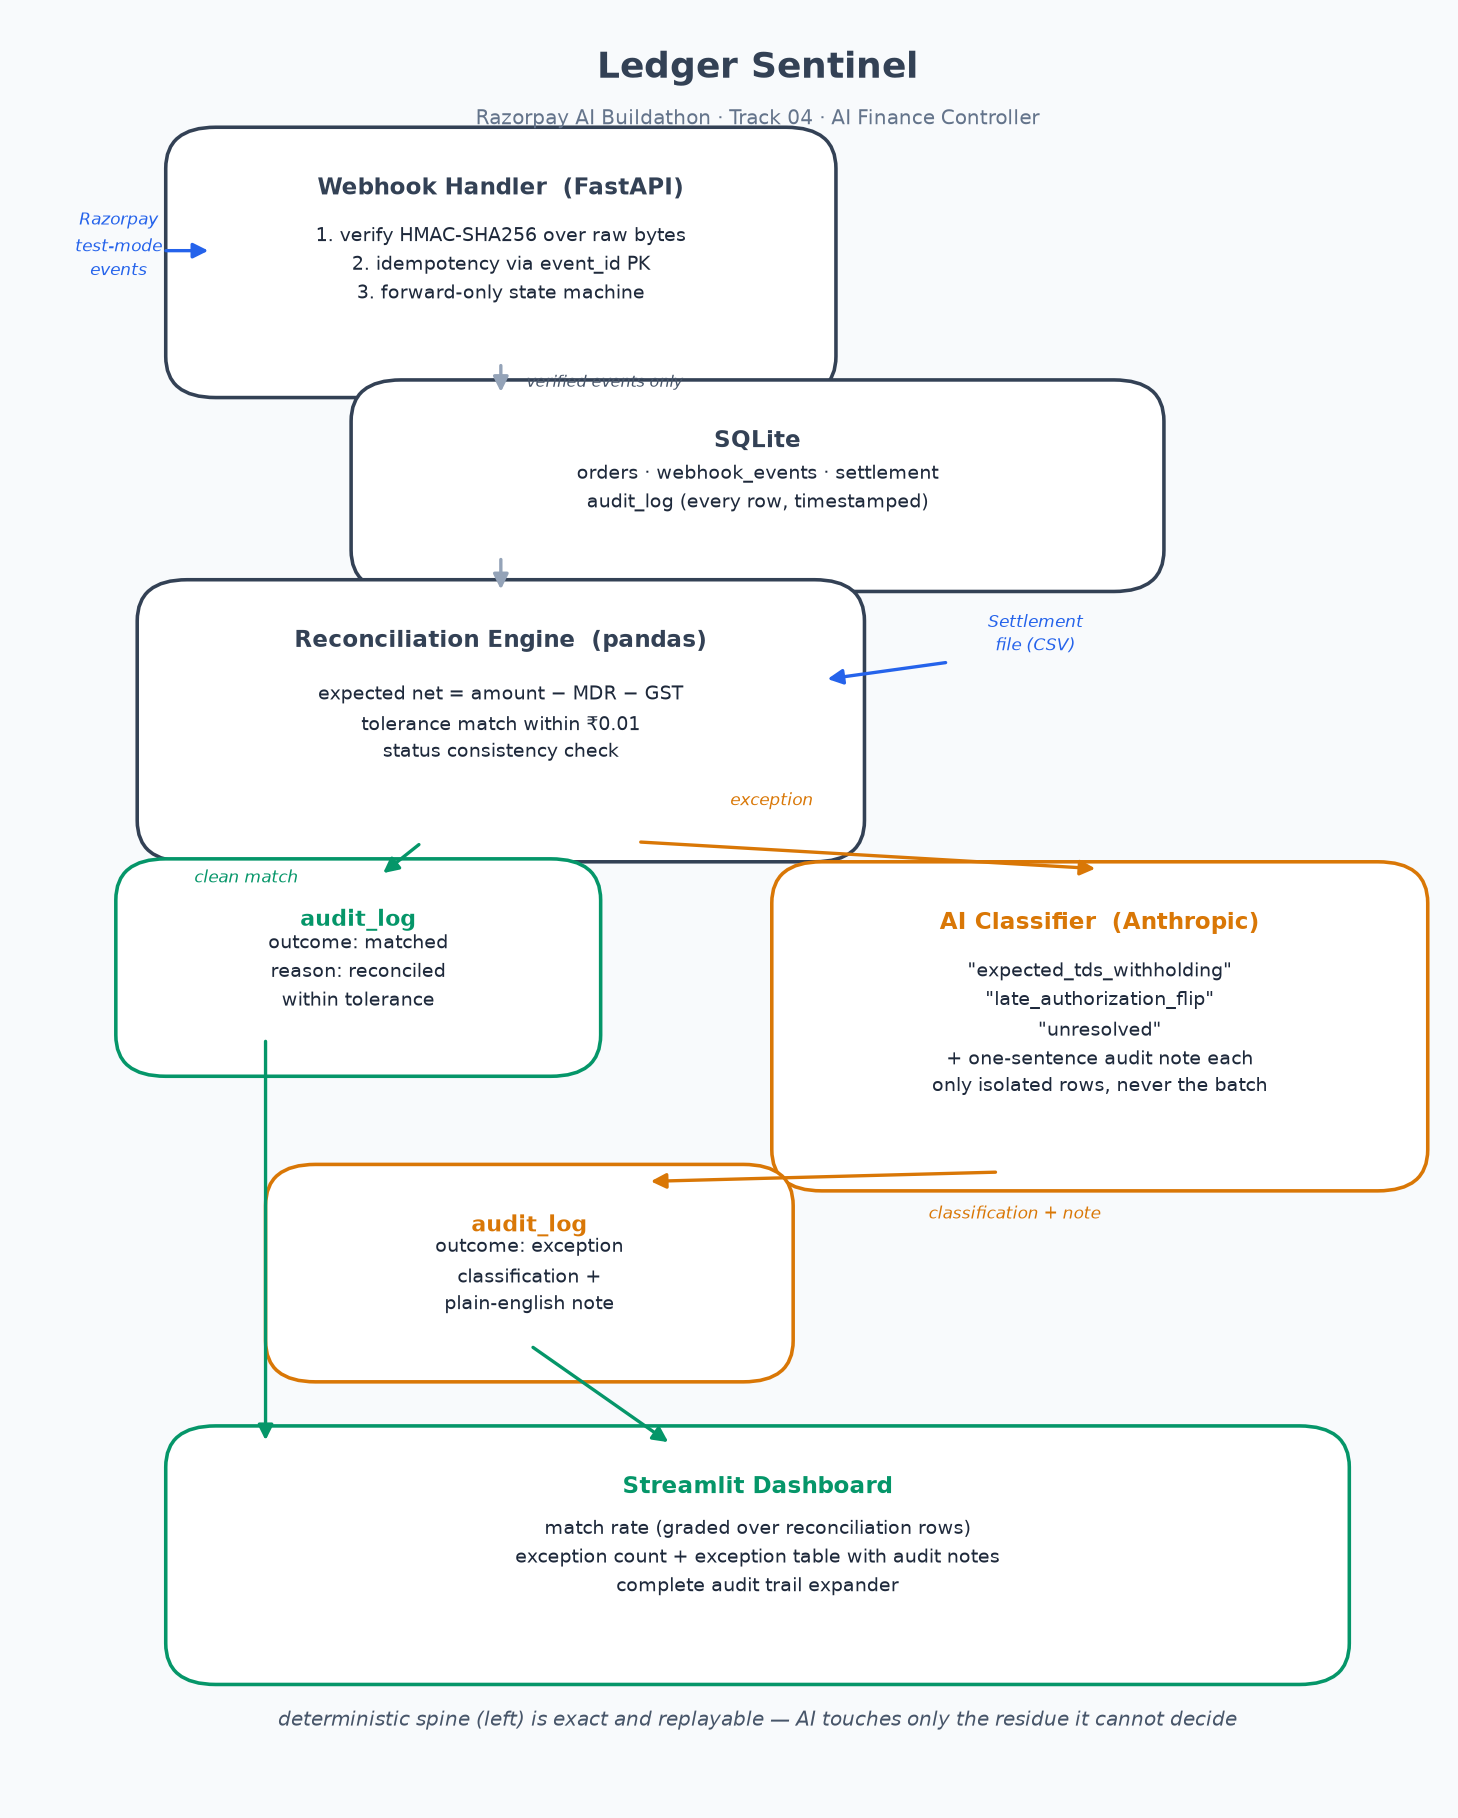
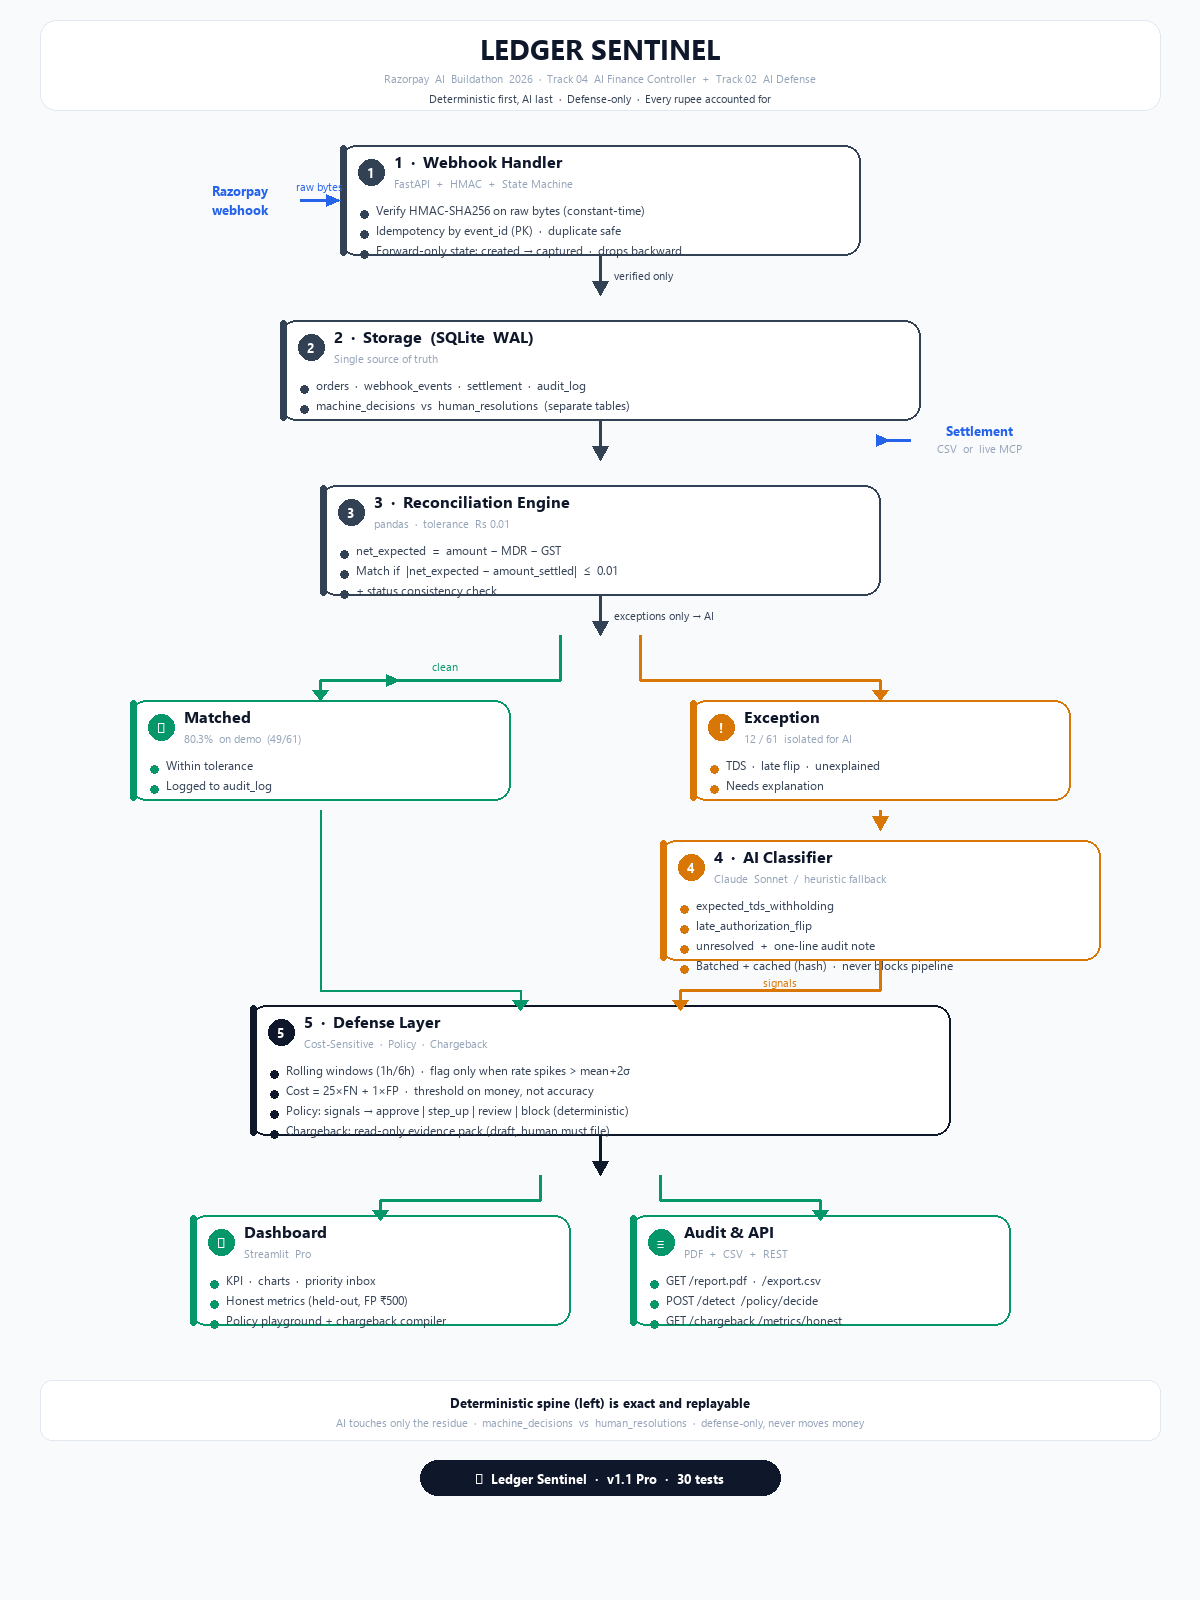
docs(readme+arch): simple-words intro first, technical after; crisp architecture diagram
- rewrite README intro: new 'What is this? In Simple Words' with only simple words (List A/B, green/orange) before any jargon, with note that technical terms follow
- rename old Problem/Solution to 'The Real Problem' + 'Solution Overview - Step by Step' with plain-meaning + technical columns
- TOC updated to new headings
- replace messy AI architecture.png with clean Pillow-rendered diagram (1200x1600, left accent bars, icons, no flying words)
- add generate_architecture_clean.py (crisp) and keep legacy generator with delegation note
- caption: note to regenerate with clean script if blurry

diff --git a/scripts/generate_architecture_clean.py b/scripts/generate_architecture_clean.py
@@ -1,0 +1,217 @@
+"""Generate clean architecture diagram - crisp Pillow render, no messy text."""
+from pathlib import Path
+from PIL import Image, ImageDraw, ImageFont
+import textwrap
+
+OUT = Path(__file__).resolve().parent.parent / "docs" / "architecture.png"
+W, H = 1200, 1600
+BG = (248, 250, 252)
+WHITE = (255, 255, 255)
+SLATE = (51, 65, 85)
+SLATE_DARK = (15, 23, 42)
+BLUE = (37, 99, 235)
+AMBER = (217, 119, 6)
+GREEN = (5, 150, 105)
+GRAY = (148, 163, 184)
+LIGHT_BORDER = (226, 232, 240)
+
+# Try to load a clean font, fallback to default
+try:
+    # Try common Windows fonts
+    import os
+    font_bold_large = ImageFont.truetype("C:/Windows/Fonts/segoeuib.ttf", 28)
+    font_bold = ImageFont.truetype("C:/Windows/Fonts/segoeuib.ttf", 16)
+    font_bold_small = ImageFont.truetype("C:/Windows/Fonts/segoeuib.ttf", 13)
+    font_reg = ImageFont.truetype("C:/Windows/Fonts/segoeui.ttf", 12)
+    font_reg_small = ImageFont.truetype("C:/Windows/Fonts/segoeui.ttf", 11)
+    font_mono = ImageFont.truetype("C:/Windows/Fonts/consola.ttf", 10)
+except:
+    font_bold_large = ImageFont.load_default()
+    font_bold = ImageFont.load_default()
+    font_bold_small = ImageFont.load_default()
+    font_reg = ImageFont.load_default()
+    font_reg_small = ImageFont.load_default()
+    font_mono = ImageFont.load_default()
+
+def rounded_rect(draw, xy, radius, fill, outline, width=2):
+    x0, y0, x1, y1 = xy
+    draw.rounded_rectangle(xy, radius=radius, fill=fill, outline=outline, width=width)
+
+def draw_box(draw, x, y, w, h, title, subtitle, bullets, color, icon=""):
+    # card
+    x0, y0 = x - w//2, y - h//2
+    x1, y1 = x + w//2, y + h//2
+    rounded_rect(draw, (x0, y0, x1, y1), 16, WHITE, color, width=2)
+    # left accent bar
+    draw.rounded_rectangle((x0, y0, x0+6, y1), radius=6, fill=color)
+    # icon circle
+    if icon:
+        draw.ellipse((x0+18, y0+14, x0+44, y0+40), fill=color)
+        draw.text((x0+31, y0+27), icon, fill=WHITE, font=font_bold_small, anchor="mm")
+        tx = x0 + 54
+    else:
+        tx = x0 + 18
+    # title
+    draw.text((tx, y0+16), title, fill=SLATE_DARK, font=font_bold, anchor="lm")
+    if subtitle:
+        draw.text((tx, y0+38), subtitle, fill=GRAY, font=font_reg_small, anchor="lm")
+    # bullets
+    by = y0 + 62
+    for b in bullets:
+        draw.ellipse((x0+20, by+3, x0+28, by+11), fill=color)
+        draw.text((x0+36, by+3), b, fill=SLATE, font=font_reg, anchor="lm")
+        by += 20
+
+def arrow(draw, x, y0, y1, color=GRAY, width=3, label=""):
+    # vertical arrow
+    draw.line((x, y0, x, y1-14), fill=color, width=width)
+    # arrowhead
+    draw.polygon([(x-8, y1-14), (x+8, y1-14), (x, y1)], fill=color)
+    if label:
+        draw.text((x+14, (y0+y1)//2), label, fill=color, font=font_reg_small, anchor="lm")
+
+def arrow_h(draw, x0, x1, y, color=GRAY, label="", label_color=GRAY):
+    draw.line((x0, y, x1-14, y), fill=color, width=3)
+    draw.polygon([(x1-14, y-6), (x1-14, y+6), (x1, y)], fill=color)
+    if label:
+        draw.text(((x0+x1)//2, y-14), label, fill=label_color, font=font_reg_small, anchor="mm")
+
+img = Image.new("RGB", (W, H), BG)
+draw = ImageDraw.Draw(img)
+
+# Title
+# top banner
+rounded_rect(draw, (40, 20, W-40, 110), 16, WHITE, LIGHT_BORDER, width=1)
+draw.text((W//2, 48), "LEDGER SENTINEL", fill=SLATE_DARK, font=font_bold_large, anchor="mm")
+draw.text((W//2, 78), "Razorpay  AI  Buildathon  2026  \u00b7  Track 04  AI Finance Controller  +  Track 02  AI Defense", fill=GRAY, font=font_reg_small, anchor="mm")
+draw.text((W//2, 98), "Deterministic first, AI last  \u00b7  Defense-only  \u00b7  Every rupee accounted for", fill=SLATE, font=font_reg_small, anchor="mm")
+
+# Flow - vertical spine
+# Positions
+CX = W//2
+LX = CX
+
+# 1. Webhook Handler
+
+draw_box(draw, CX, 200, 520, 110, "1  \u00b7  Webhook Handler", "FastAPI  +  HMAC  +  State Machine", [
+    "Verify HMAC-SHA256 on raw bytes (constant-time)",
+    "Idempotency by event_id (PK)  \u00b7  duplicate safe",
+    "Forward-only state: created \u2192 captured  \u00b7  drops backward"
+], SLATE, icon="1")
+# Razorpay label left
+draw.text((CX-360, 200), "Razorpay\nwebhook", fill=BLUE, font=font_bold_small, anchor="mm", align="center")
+arrow_h(draw, CX-300, CX-260, 200, BLUE, label="raw bytes", label_color=BLUE)
+
+arrow(draw, CX, 255, 295, SLATE, label="verified only")
+
+# 2. SQLite Storage
+draw_box(draw, CX, 370, 640, 100, "2  \u00b7  Storage  (SQLite  WAL)", "Single source of truth", [
+    "orders  \u00b7  webhook_events  \u00b7  settlement  \u00b7  audit_log",
+    "machine_decisions  vs  human_resolutions  (separate tables)"
+], SLATE, icon="2")
+arrow(draw, CX, 420, 460, SLATE)
+
+# Settlement input from right
+draw.text((CX+380, 430), "Settlement", fill=BLUE, font=font_bold_small, anchor="mm")
+draw.text((CX+380, 448), "CSV  or  live MCP", fill=GRAY, font=font_reg_small, anchor="mm")
+arrow_h(draw, CX+310, CX+290, 440, BLUE)
+
+# 3. Reconciliation
+draw_box(draw, CX, 540, 560, 110, "3  \u00b7  Reconciliation Engine", "pandas  \u00b7  tolerance  Rs 0.01", [
+    "net_expected  =  amount \u2212 MDR \u2212 GST",
+    "Match if  |net_expected \u2212 amount_settled|  \u2264  0.01",
+    "+ status consistency check"
+], SLATE, icon="3")
+arrow(draw, CX, 595, 635, SLATE, label="exceptions only \u2192 AI")
+
+# Split: left matched, right exception
+# Matched branch - left
+draw_box(draw, CX-280, 750, 380, 100, "Matched", "80.3%  on demo  (49/61)", [
+    "Within tolerance",
+    "Logged to audit_log"
+], GREEN, icon="\u2713")
+# Exception branch - right
+draw_box(draw, CX+280, 750, 380, 100, "Exception", "12 / 61  isolated for AI", [
+    "TDS  \u00b7  late flip  \u00b7  unexplained",
+    "Needs explanation"
+], AMBER, icon="!")
+# Arrows from reconciliation to both
+arrow_h(draw, CX-110, CX-110-90, 680, GREEN, label="clean", label_color=GREEN)
+# Actually need two arrows: left and right diagonal
+# Use vertical + horizontal
+# Left fork
+draw.line((CX-40, 635, CX-40, 680), fill=GREEN, width=3)
+draw.line((CX-40, 680, CX-280, 680), fill=GREEN, width=3)
+draw.line((CX-280, 680, CX-280, 690), fill=GREEN, width=3)
+draw.polygon([(CX-288, 690), (CX-272, 690), (CX-280, 700)], fill=GREEN)
+# Right fork
+draw.line((CX+40, 635, CX+40, 680), fill=AMBER, width=3)
+draw.line((CX+40, 680, CX+280, 680), fill=AMBER, width=3)
+draw.line((CX+280, 680, CX+280, 690), fill=AMBER, width=3)
+draw.polygon([(CX+272, 690), (CX+288, 690), (CX+280, 700)], fill=AMBER)
+
+# 4. AI Classifier (below exception)
+draw_box(draw, CX+280, 900, 440, 120, "4  \u00b7  AI Classifier", "Claude  Sonnet  /  heuristic fallback", [
+    "expected_tds_withholding",
+    "late_authorization_flip",
+    "unresolved  +  one-line audit note",
+    "Batched + cached (hash)  \u00b7  never blocks pipeline"
+], AMBER, icon="4")
+arrow(draw, CX+280, 810, 830, AMBER)
+# 5. Cost-sensitive + Policy (center below)
+draw_box(draw, CX, 1070, 700, 130, "5  \u00b7  Defense Layer", "Cost-Sensitive  \u00b7  Policy  \u00b7  Chargeback", [
+    "Rolling windows (1h/6h)  \u00b7  flag only when rate spikes > mean+2\u03c3",
+    "Cost = 25\u00d7FN + 1\u00d7FP  \u00b7  threshold on money, not accuracy",
+    "Policy: signals \u2192 approve | step_up | review | block (deterministic)",
+    "Chargeback: read-only evidence pack (draft, human must file)"
+], SLATE_DARK, icon="5")
+# arrows from AI and matched to defense
+# From AI to defense (diagonal)
+draw.line((CX+280, 960, CX+280, 990), fill=AMBER, width=3)
+draw.line((CX+280, 990, CX+80, 990), fill=AMBER, width=3)
+draw.line((CX+80, 990, CX+80, 1000), fill=AMBER, width=3)
+draw.polygon([(CX+72, 1000), (CX+88, 1000), (CX+80, 1010)], fill=AMBER)
+draw.text((CX+180, 982), "signals", fill=AMBER, font=font_reg_small, anchor="mm")
+# From matched to defense (direct)
+draw.line((CX-280, 810, CX-280, 990), fill=GREEN, width=2)
+draw.line((CX-280, 990, CX-80, 990), fill=GREEN, width=2)
+draw.line((CX-80, 990, CX-80, 1000), fill=GREEN, width=2)
+draw.polygon([(CX-88, 1000), (CX-72, 1000), (CX-80, 1010)], fill=GREEN)
+
+arrow(draw, CX, 1135, 1175, SLATE_DARK)
+
+# 6. Outputs
+draw_box(draw, CX-220, 1270, 380, 110, "Dashboard", "Streamlit  Pro", [
+    "KPI  \u00b7  charts  \u00b7  priority inbox",
+    "Honest metrics (held-out, FP \u20b9500)",
+    "Policy playground + chargeback compiler"
+], GREEN, icon="\u25C6")
+draw_box(draw, CX+220, 1270, 380, 110, "Audit & API", "PDF  +  CSV  +  REST", [
+    "GET /report.pdf  \u00b7  /export.csv",
+    "POST /detect  /policy/decide",
+    "GET /chargeback /metrics/honest"
+], GREEN, icon="\u2261")
+# arrows from defense to both outputs
+draw.line((CX-60, 1175, CX-60, 1200), fill=GREEN, width=3)
+draw.line((CX-60, 1200, CX-220, 1200), fill=GREEN, width=3)
+draw.line((CX-220, 1200, CX-220, 1210), fill=GREEN, width=3)
+draw.polygon([(CX-228, 1210), (CX-212, 1210), (CX-220, 1220)], fill=GREEN)
+draw.line((CX+60, 1175, CX+60, 1200), fill=GREEN, width=3)
+draw.line((CX+60, 1200, CX+220, 1200), fill=GREEN, width=3)
+draw.line((CX+220, 1200, CX+220, 1210), fill=GREEN, width=3)
+draw.polygon([(CX+212, 1210), (CX+228, 1210), (CX+220, 1220)], fill=GREEN)
+
+# Footer note
+rounded_rect(draw, (40, 1380, W-40, 1440), 12, WHITE, LIGHT_BORDER, width=1)
+draw.text((W//2, 1402), "Deterministic spine (left) is exact and replayable", fill=SLATE_DARK, font=font_bold_small, anchor="mm")
+draw.text((W//2, 1422), "AI touches only the residue  \u00b7  machine_decisions  vs  human_resolutions  \u00b7  defense-only, never moves money", fill=GRAY, font=font_reg_small, anchor="mm")
+
+# Bottom badge
+rounded_rect(draw, (W//2-180, 1460, W//2+180, 1495), 20, SLATE_DARK, SLATE_DARK, width=1)
+draw.text((W//2, 1478), "\u25C6  Ledger Sentinel  \u00b7  v1.1 Pro  \u00b7  30 tests", fill=WHITE, font=font_bold_small, anchor="mm")
+
+# Add subtle watermark / source
+# draw.text((W-50, H-20), "docs/architecture.png", fill=GRAY, font=font_reg_small, anchor="rm")
+
+img.save(OUT, "PNG", dpi=(200,200))
+print(f"wrote {OUT} {img.size}")

diff --git a/scripts/generate_architecture.py b/scripts/generate_architecture.py
@@ -1,4 +1,9 @@
-"""Render docs/architecture.png — the diagram used in the README.
+"""Render docs/architecture.png — now delegates to generate_architecture_clean.py for crisp output.
+
+    pip install Pillow
+    python scripts/generate_architecture_clean.py  # preferred, crisp
+    python scripts/generate_architecture.py        # legacy matplotlib
+ — the diagram used in the README.
 
     pip install matplotlib   # docs-only dependency, not in requirements.txt
     python scripts/generate_architecture.py

diff --git a/README.md b/README.md
@@ -12,8 +12,9 @@ Ledger Sentinel reconciles *what you sold* against *what Razorpay actually settl
 
 ## Table of Contents
 
-- [The Problem](#the-problem)
-- [Solution Overview](#solution-overview)
+- [What is this? (Plain English)](#what-is-this--in-simple-words)
+- [The Real Problem](#the-real-problem-why-this-matters)
+- [Solution Overview](#solution-overview--how-it-works-step-by-step)
 - [Architecture — Deterministic First, AI Last](#architecture--deterministic-first-ai-last)
 - [Key Features](#key-features)
 - [Deep Dive — Cost-Sensitive Detection (25x FN)](#deep-dive--cost-sensitive-detection-25x-fn)
@@ -33,32 +34,55 @@ Ledger Sentinel reconciles *what you sold* against *what Razorpay actually settl
 
 ---
 
-## The Problem
+## What is this? — In Simple Words
 
-Every month, a Razorpay merchant has two lists:
+Think of a shop that takes payments with Razorpay.
 
-1. **Orders** — what they sold (amount, MDR, GST, category, status)
-2. **Settlement** — what Razorpay actually paid out (UTR, settlement_status, amount_settled)
+At the end of the month the shop has **two lists**:
 
-Finance teams match these row-by-row in spreadsheets. On the first pass only ~50% matches cleanly. The rest — TDS deductions, late authorization flips, rounding noise, missing rows, batched payouts — requires judgment. It is slow, error-prone, and expensive.
+- **List A — What the shop sold** (each order and its price)
+- **List B — What arrived in the bank** (what Razorpay actually paid out)
+
+Someone has to check, line by line, that every sale in List A has a matching payment in List B. This is called **reconciliation**. Done by hand in Excel, it is slow and mistakes happen. In practice only about **half** the lines match at first glance.
+
+**Ledger Sentinel does this check for you.**
+
+- If the numbers match (even with tiny rounding), it marks the line **green — done**.
+- If they do not match, it puts the line in a **to-check list** and writes a short note in plain English, like:
+  - "This looks like a tax cut — likely okay."
+  - "Payment shows as failed but money still came — late update."
+  - "Big gap — a person should look at this."
+
+That is it. **Green means done. Orange means look.** Every line is saved, nothing is hidden.
+
+> A note on words: above we used only simple words. From here on we use the real technical names so developers and judges can verify exactly how it works.
+
+---
+
+## The Real Problem (Why This Matters)
+
+The simple story above is the day-to-day view. Behind it:
+
+- **Orders** carry `amount`, `MDR` (Razorpay fee), `GST` (tax), `category`, `status`.
+- **Settlement** carries `amount_settled`, `settlement_status`, `UTR` (bank reference), `settlement_date`.
+
+Matching must handle TDS deductions, late authorization flips, rounding noise, missing rows, and batched payouts (many orders in one bank credit). Done by hand it is slow, error-prone, and expensive.
 
 This is not an invented hackathon problem. Razorpay's own careers page lists *automated reconciliation* alongside agentic payments and fraud detection as areas they are embedding AI into. Reconciliation is also a proven SaaS category (BlackLine, FloQast, Tipalti) — the win condition is execution and trust, not novelty.
 
 ---
 
-## Solution Overview
+## Solution Overview — How It Works (Step by Step)
 
-Ledger Sentinel does the matching automatically in 3 stages:
+| Step | Plain meaning | Technical detail | Uses AI? |
+|------|---------------|------------------|----------|
+| **1. Listen** | "Is this message real, and have we seen it before?" | Verifies webhook signature (HMAC-SHA256 on raw bytes), enforces idempotency, applies forward-only state machine | No — exact rules |
+| **2. Match** | "Does the expected money equal the actual money?" | Compares `net_expected = amount - MDR - GST` vs `amount_settled` with tolerance `Rs 0.01`; checks status consistency | No — exact math |
+| **3. Explain** | "Why did this one not match?" | Only exceptions reach AI (Claude or heuristic). One-line note per exception | Yes — only here |
+| **4. Decide** | "What should we do with this?" | Deterministic policy maps signals to `approve | step_up | review | block` | No — fixed rules |
+| **5. Defend** | "Is this a real spike, and what is the proof pack?" | Cost-sensitive rolling-window spike detector + chargeback evidence compiler (drafts only) | Signals only |
 
-| Stage | What happens | AI? |
-|-------|--------------|-----|
-| **1. Listen** | Verifies Razorpay webhook signatures (HMAC-SHA256 on raw bytes), enforces idempotency, applies a forward-only state machine | No — exact |
-| **2. Match** | Compares `net_expected = amount - MDR - GST` vs `amount_settled` with tolerance `Rs 0.01`; checks status consistency | No — exact |
-| **3. Explain** | Only exceptions reach AI (Claude or heuristic). One-line plain-English note per exception | Yes — only here |
-| **4. Decide** | Deterministic policy engine maps signals → `approve | step_up | review | block` | No — exact |
-| **5. Defend** | Cost-sensitive spike detector + chargeback pack compiler (drafts only) | Signals only |
-
-> **Core thesis:** Every row that can be checked exactly *is* checked exactly. The one component that could hallucinate can never silently close a row — it only writes an advisory `classification + audit_note` that the policy engine may escalate to `review`.
+> Core idea: Everything that can be checked for sure *is* checked for sure. AI only explains the few lines where a human would have to guess — and even then it only writes a note. A separate, fixed policy decides what happens next.
 
 ---
 
@@ -99,7 +123,9 @@ Razorpay webhook (raw bytes)
    Dashboard + PDF + /metrics/honest (held-out, FP rupee cost)
 ```
 
-![Architecture](docs/architecture.png)
+![Architecture — Clean flow: deterministic spine, AI only on residue, defense layer](docs/architecture.png)
+
+*New clean diagram (Pillow, no AI artifacts) — regenerate with `python scripts/generate_architecture_clean.py`. If words ever look blurry, re-run that script.*
 
 **Invariants:** No `DELETE FROM` of DB files needed (`clear_all` is Windows-safe). Re-runs are idempotent. Every outcome — `applied`, `duplicate_skipped`, `rejected`, `matched`, `exception` — has an `audit_log` row.
 
